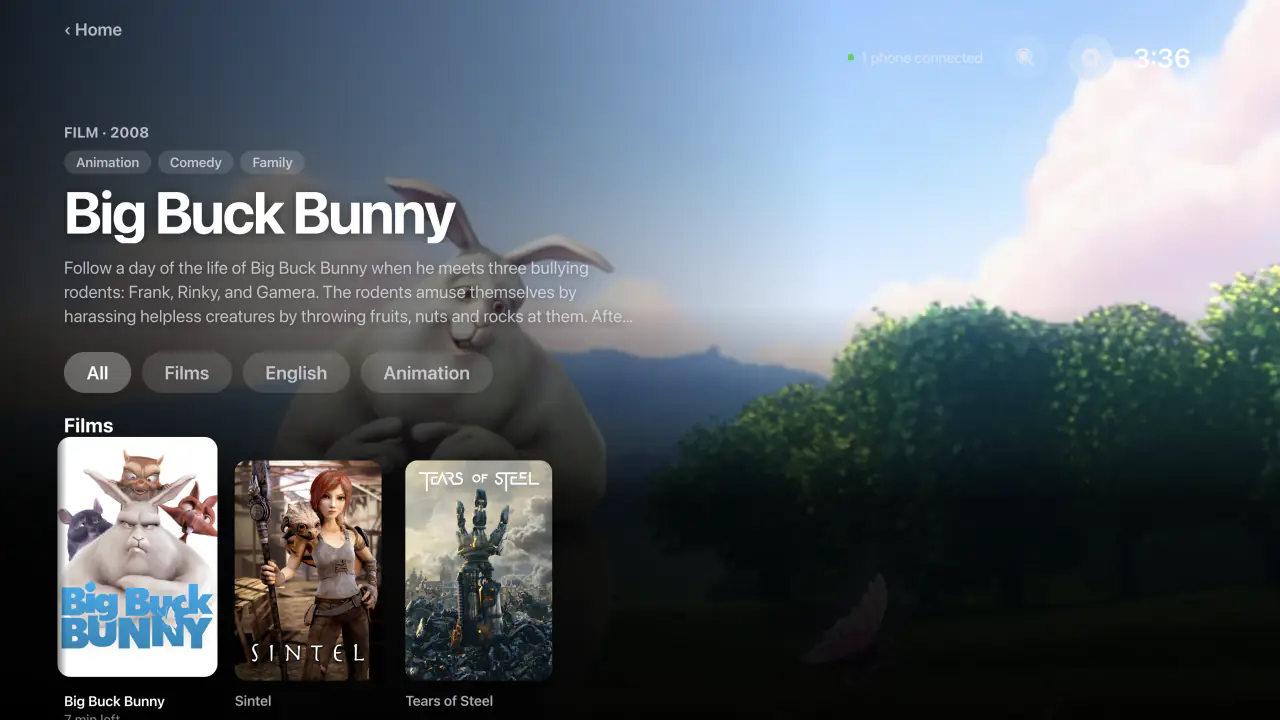
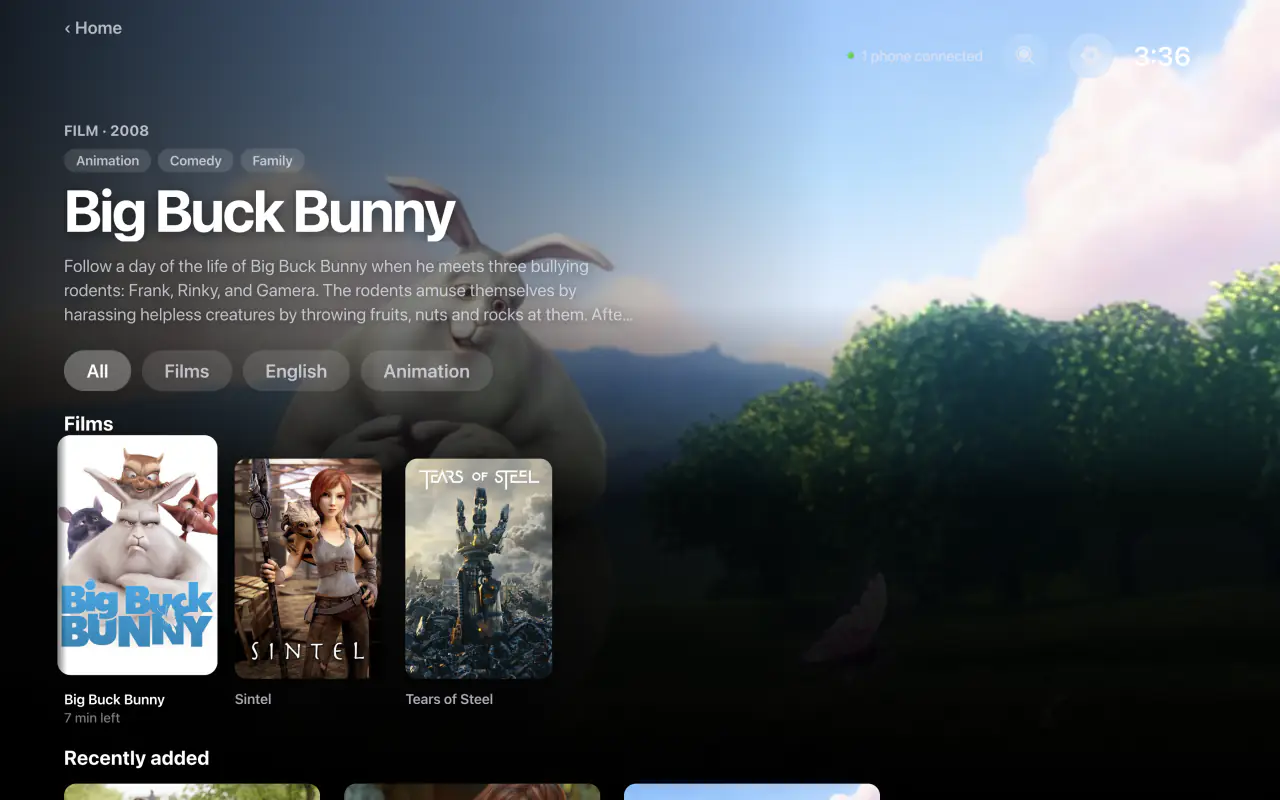
Screenshots: no crop cuts through Couch's UI (Home and the Library whole at the display's 16:10, frames holding a picture take its shape); setup step 3 shows a clean playing frame instead of the controls with "More episodes"

diff --git a/site/src/slots.ts b/site/src/slots.ts
@@ -22,13 +22,15 @@ export interface Slot {
 const SCREEN = { width: 1920, height: 1080 } as const;
 const PHONE = { width: 1080, height: 2280 } as const;
 const SHOT = { ...SCREEN, loading: "lazy" } as const;
+/** Home and the Library at the Mac display's own 16:10, so no crop cuts through their UI (scripts/shots.mjs). */
+const SHOT_16X10 = { width: 1920, height: 1200, loading: "lazy" } as const;
 const widths = [640, 1280] as const;
 
 // The real Couch, from the ticket 140 shoot (scripts/shots.mjs). The films are Blender's open films (© Blender
 // Foundation, CC BY 3.0) and the posters and backdrops come from TMDB; the footer and /licenses/ credit both.
 export const slots = {
   "hero-screen": {
-    file: "home.webp", ...SHOT, srcset: { widths, sizes: "(max-width: 1048px) calc(100vw - 66px), 982px" },
+    file: "home.webp", ...SHOT_16X10, srcset: { widths, sizes: "(max-width: 1048px) calc(100vw - 66px), 982px" },
     alt: "Couch Home on the Screen: Big Buck Bunny under Continue watching, its picture filling the Screen with Resume and From start, and the YouTube, Netflix and Library Apps below",
   },
   "remote-screen": {
@@ -44,7 +46,7 @@ export const slots = {
     alt: "Couch Home with the YouTube, Netflix and Library Apps and unfinished videos",
   },
   "library-screen": {
-    file: "library.webp", ...SHOT, srcset: { widths, sizes: "(max-width: 880px) calc(100vw - 58px), min(50vw, 640px)" },
+    file: "library.webp", ...SHOT_16X10, srcset: { widths, sizes: "(max-width: 880px) calc(100vw - 58px), min(50vw, 640px)" },
     alt: "The Library on the Screen: a Films shelf with the posters of Big Buck Bunny, Sintel and Tears of Steel, and the highlighted film's details above",
   },
   "privacy-screen": {
@@ -57,7 +59,7 @@ export const slots = {
   },
   "setup-player": {
     file: "player.webp", ...SHOT, srcset: { widths, sizes: "(max-width: 700px) calc(100vw - 82px), min(30vw, 340px)" },
-    alt: "Big Buck Bunny playing in Couch's player, with pause, skip, subtitle and volume controls",
+    alt: "Big Buck Bunny playing full screen in Couch's player",
   },
 } as const satisfies Record<string, Slot>;
 

diff --git a/site/src/style.css b/site/src/style.css
@@ -214,6 +214,8 @@ html.intro.intro-now .lamp, html.intro.intro-now .hero-copy > :not(.mark) { anim
 .tv::before { content: ""; position: absolute; inset: -1px; border-radius: 22px; padding: 1px; background: linear-gradient(180deg, rgba(255,255,255,.26), rgba(255,255,255,.04) 40%); -webkit-mask: linear-gradient(#000 0 0) content-box, linear-gradient(#000 0 0); -webkit-mask-composite: xor; mask-composite: exclude; pointer-events: none; z-index: 2; }
 .tv-screen { box-sizing: content-box; aspect-ratio: 16 / 9; border-radius: 20px; background: #000; overflow: hidden; border: 9px solid #121214; box-shadow: 0 50px 120px rgba(0,0,0,.6), 0 0 120px rgba(255,150,60,.10); container-type: inline-size; position: relative; text-align: left; }
 .tv-screen > img { width: 100%; height: 100%; object-fit: cover; }
+/* a real screenshot sets its frame's shape from its own width/height (16:10 Home and Library, 16:9 the others); mocks stay 16:9 */
+.tv-screen:has(> img) { aspect-ratio: auto; } .tv-screen > img { display: block; height: auto; }
 .tv-stand { width: 24%; height: 14px; margin: 0 auto; background: linear-gradient(#1b1b1e, #0c0c0e); border-radius: 0 0 14px 14px; }
 .tv.small .tv-screen { border-width: 6px; border-radius: 14px; }
 .phone { width: 230px; }

diff --git a/site/README.md b/site/README.md
@@ -42,20 +42,20 @@ The Worker stores nothing about the visitor: no IP, no user agent, no body, no c
 
 Every product picture is a **slot**, declared once in `src/slots.ts` (a typed manifest: slot name → interim file, alt text, width and height, `loading` priority). `vite.config.ts` reads it at build time and writes the `<img>` into `index.html` (`{{slot:name}}`), or into the place a mock stands in (`<!--mock:name-->…<!--/mock-->`). The build fails if `index.html` uses a slot the manifest lacks, or the manifest has a slot `index.html` never uses.
 
-To replace a picture, drop a file named `src/shots/slot-<name>.png` (or `.jpg`, `.webp`) and rebuild. It wins over the manifest's `file` and over any CSS mock. The slot keeps its alt text, `width`/`height` and `loading` (`eager` for the first viewport, `lazy` for the rest) from the manifest, so edit those in `src/slots.ts` if the new picture differs (and write real alt text for what it shows). Crop shots to the frame: 16:9 for the Screen (for example 1920×1080), about 9:19 for the Remote (1080×2280), each under about 150 KB. A dropped-in file has no `srcset`; the manifest's own pictures do (below).
+To replace a picture, drop a file named `src/shots/slot-<name>.png` (or `.jpg`, `.webp`) and rebuild. It wins over the manifest's `file` and over any CSS mock. The slot keeps its alt text, `width`/`height` and `loading` (`eager` for the first viewport, `lazy` for the rest) from the manifest, so edit those in `src/slots.ts` if the new picture differs (and write real alt text for what it shows). Crop shots so no UI is cut through: a Screen frame holding a picture takes the picture's own shape from its `width`/`height` (16:9 such as 1920×1080, or the Mac display's 16:10 such as 1920×1200; CSS mocks stay 16:9; setup steps are 16:9), about 9:19 for the Remote (1080×2280), each under about 150 KB. A dropped-in file has no `srcset`; the manifest's own pictures do (below).
 
 | Slot name | Where | Today | Source (ticket 140 shoot) |
 | --- | --- | --- | --- |
-| `hero-screen` | First look, under the hero | `home.webp`: Home with Big Buck Bunny under Continue watching | `hero-home-continue-focus.png` |
+| `hero-screen` | First look, under the hero | `home.webp` (16:10): Home with Big Buck Bunny under Continue watching | `hero-home-continue-focus.png` |
 | `remote-screen` | "Your phone is the remote" TV | Couch UI mock: Home with the pairing QR card | (mock kept: the pairing sequence) |
 | `remote-phone` | Same section, phone | Couch UI mock: the Remote, and a phone camera view | (mock kept: the pairing sequence) |
 | `apps-screen` | "The Apps you already use" TV | Couch UI mock: Home with the Continue row and App tiles | (mock kept: the focus pass across the Apps) |
-| `library-screen` | "Your Library" TV | `library.webp`: the Films shelf (Big Buck Bunny, Sintel, Tears of Steel) | `library-first-page.png` |
+| `library-screen` | "Your Library" TV | `library.webp` (16:10): the Films shelf (Big Buck Bunny, Sintel, Tears of Steel) | `library-first-page.png` |
 | `privacy-screen` | Privacy panel TV | `settings.webp`: Settings | `settings.png` |
 | `setup-remotes` | Setup step 2 | `remotes.webp`: Remotes and Devices, Add a phone | `remotes-devices.png` |
-| `setup-player` | Setup step 3 | `player.webp`: Big Buck Bunny in the player, controls showing | `player-controls.png` |
+| `setup-player` | Setup step 3 | `player.webp`: Big Buck Bunny playing, controls hidden | `player-clean-frame.png` |
 
-**The screenshots (ticket 142)** are the real Couch from the ticket 140 shoot (`~/Projects/couch-notes/shots/140/`): a temporary profile, no household data, YouTube and Netflix only as App tiles, each picture privacy-checked there and again here. `pnpm shots [dir]` (`scripts/shots.mjs`, needs `cwebp`) crops each window capture to 16:9 and writes WebP at 1920 (`<name>.webp`), 1280 and 640 px (`<name>-1280.webp`, `<name>-640.webp`); `vite.config.ts` writes them as a `srcset` with the slot's `sizes`. The films are Blender's open films *Big Buck Bunny*, *Sintel* and *Tears of Steel* (© Blender Foundation, CC BY 3.0) and the posters, backdrops and synopses come from TMDB, so the footer and `/licenses/` credit both and carry TMDB's notice ("This product uses the TMDB API but is not endorsed or certified by TMDB"). Keep those credits whenever a picture shows a film. The two Remote-section slots (`remote-screen`, `remote-phone`) carry the finite pairing sequence (QR, pair, D-pad press, highlight moves); replacing either with a still turns that part into a plain picture, so replace both or neither. The sequence's end state is the connected state, which is also what visitors with reduced motion or no JavaScript see.
+**The screenshots (ticket 142)** are the real Couch from the ticket 140 shoot (`~/Projects/couch-notes/shots/140/`): a temporary profile, no household data, YouTube and Netflix only as App tiles, each picture privacy-checked there and again here. `pnpm shots [dir]` (`scripts/shots.mjs`, needs `cwebp`) crops each window capture without cutting through its UI (Home and the Library whole at the display's 16:10; Settings and Remotes to 16:9 by trimming empty black; the film frame to 16:9 by trimming the player's letterbox) and writes WebP at 1920 (`<name>.webp`), 1280 and 640 px (`<name>-1280.webp`, `<name>-640.webp`); `vite.config.ts` writes them as a `srcset` with the slot's `sizes`. The films are Blender's open films *Big Buck Bunny*, *Sintel* and *Tears of Steel* (© Blender Foundation, CC BY 3.0) and the posters, backdrops and synopses come from TMDB, so the footer and `/licenses/` credit both and carry TMDB's notice ("This product uses the TMDB API but is not endorsed or certified by TMDB"). Keep those credits whenever a picture shows a film. The two Remote-section slots (`remote-screen`, `remote-phone`) carry the finite pairing sequence (QR, pair, D-pad press, highlight moves); replacing either with a still turns that part into a plain picture, so replace both or neither. The sequence's end state is the connected state, which is also what visitors with reduced motion or no JavaScript see.
 
 The hero's light is `src/shots/couch-glow.webp` (and `-480`): Couch's own icon art, `build/icon.png` in the Couch repo, cropped to the sofa and its tile darkened so it can be added to the page as light (`mix-blend-mode: screen`). Regenerate:
 

diff --git a/site/COPY.md b/site/COPY.md
@@ -317,7 +317,7 @@ Source of truth for slot alts: `src/slots.ts`. These descriptions also name the 
 | `library-screen` | The Library on the Screen: a Films shelf with the posters of Big Buck Bunny, Sintel and Tears of Steel, and the highlighted film's details above |
 | `privacy-screen` | Couch Settings: Remotes and Devices with one phone connected, Library, Sound output, Apps, Home and Quit Couch |
 | `setup-remotes` | Remotes and Devices in Settings, with Add a phone highlighted to show the QR code |
-| `setup-player` | Big Buck Bunny playing in Couch's player, with pause, skip, subtitle and volume controls |
+| `setup-player` | Big Buck Bunny playing full screen in Couch's player (a clean frame, controls hidden) |
 | Library shelf mock (`src/mocks.ts`), unchanged | A folder named Movies becomes a shelf of videos: Summer Trip and Cooking Show part-watched, Home Videos watched |
 
 Decorative brand/app icons have empty alt text. Decorative SVGs, highlights and device frames do not need prose. Product mocks are image-like and inert, not working controls.
